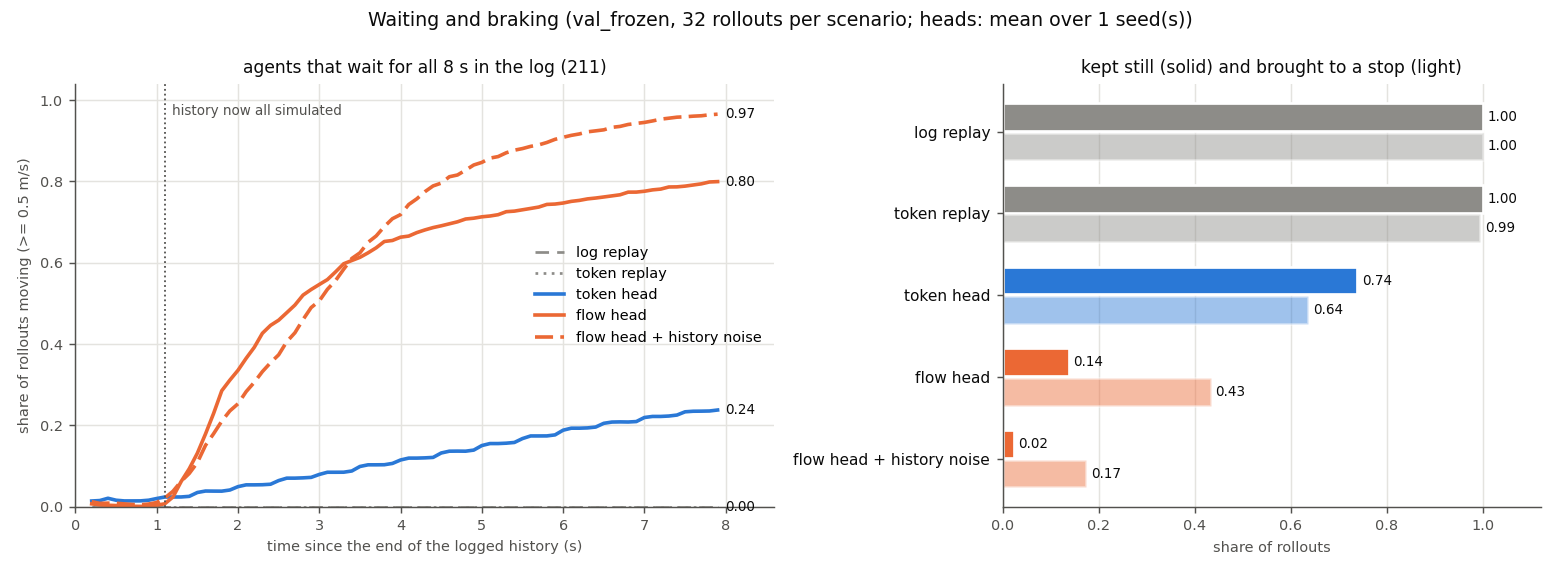
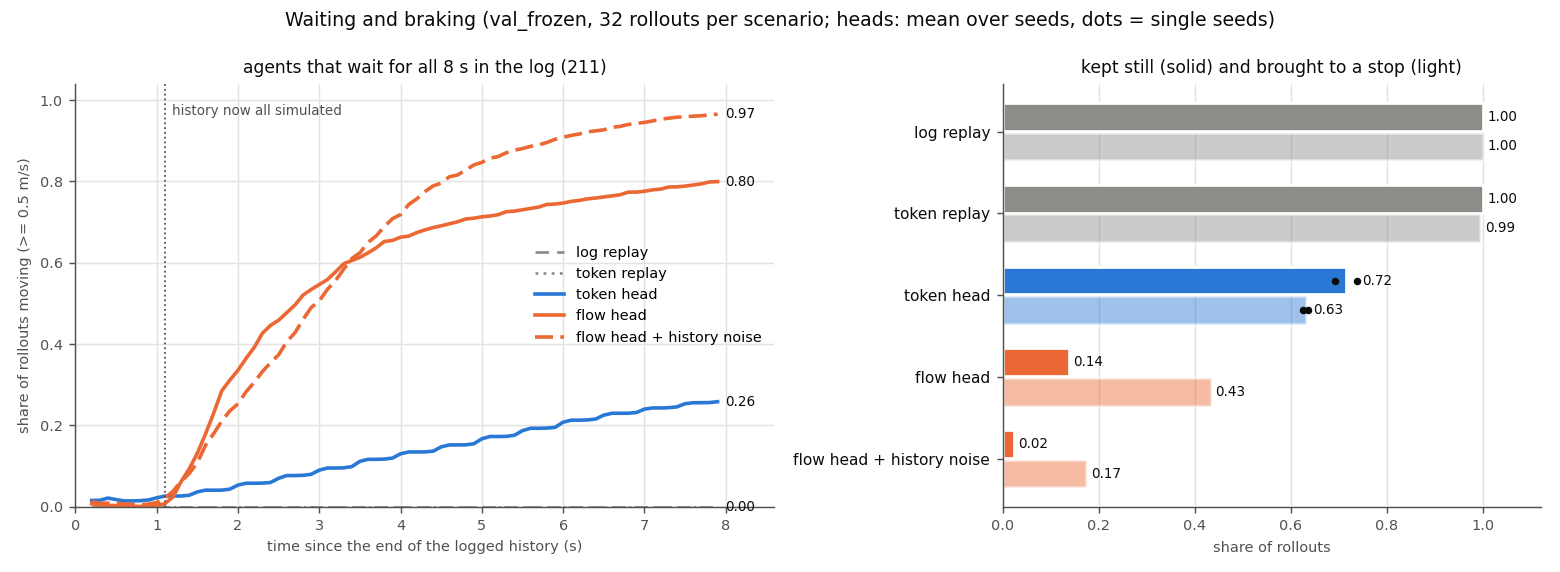
results: token baseline seed 1

diff --git a/src/tokens_vs_flows/figures.py b/src/tokens_vs_flows/figures.py
@@ -724,8 +724,8 @@ def main():
     still = {k: v for k, v in still.items() if v[0] and all((r / "standstill.json").exists() for r in v[0])}
     if len(still) == 5:
         standstill(still, figs / "standstill.png",
-                   title="Waiting and braking (val_frozen, 32 rollouts per scenario; heads: mean over "
-                         f"{min(len(v[0]) for k, v in still.items() if v[1] != 'ref')} seed(s))")
+                   title="Waiting and braking (val_frozen, 32 rollouts per scenario; heads: mean over seeds, "
+                         "dots = single seeds)")
     frozen = runs / f"fpo_clip0.01_flow_noise_s{s}"
     if (frozen / "per_scenario.csv").exists():
         field_gaps([runs / f"bc_flow_noise_s{s}"], [frozen], figs / f"field_gaps_freezing_s{s}.png",
